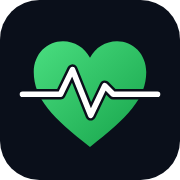
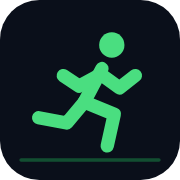
เปลี่ยนโลโก้เป็นนักวิ่ง และตั้งชื่อแอป ChanRun
Claude-Session: https://claude.ai/code/session_01H3crgiExkvZUZMgEydRkAY

Changed region(s): [[0.1111, 0.1667, 0.8889, 0.9167]]

diff --git a/src/App.jsx b/src/App.jsx
@@ -383,7 +383,7 @@ export default function App() {
       <div style={{ background:'#0d1117', borderBottom:'1px solid #1f2937', padding:'10px 16px', display:'flex', justifyContent:'space-between', alignItems:'center' }}>
         <div style={{ display:'flex', alignItems:'center', gap:10 }}>
           {user?.user_metadata?.avatar_url && <img src={user.user_metadata.avatar_url} style={{ width:28, height:28, borderRadius:'50%' }} />}
-          <div style={{ fontSize:13, fontWeight:'bold', color:'#22c55e', letterSpacing:2, display:'flex', alignItems:'center', gap:8 }}><img src="/logo.svg" alt="" width={24} height={24} />MARATHON COACH</div>
+          <div style={{ fontSize:13, fontWeight:'bold', color:'#22c55e', letterSpacing:2, display:'flex', alignItems:'center', gap:8 }}><img src="/logo.svg" alt="" width={24} height={24} />CHANRUN</div>
         </div>
         <div style={{ display:'flex', gap:8, alignItems:'center' }}>
           {daysLeft !== null && <div style={{ fontSize:11, color:'#f59e0b' }}>⏱ {daysLeft} วัน</div>}
@@ -417,8 +417,8 @@ export default function App() {
 function LoginScreen({ onLogin }) {
   return (
     <div style={{ minHeight:'100vh', background:'linear-gradient(160deg,#0a0f1a,#0f1f10)', display:'flex', flexDirection:'column', alignItems:'center', justifyContent:'center', padding:24 }}>
-      <img src="/logo.svg" alt="Marathon Coach" width={88} height={88} style={{ marginBottom:8 }} />
-      <div style={{ fontSize:28, fontWeight:'bold', color:'#22c55e', letterSpacing:3, marginBottom:4 }}>MARATHON COACH</div>
+      <img src="/logo.svg" alt="ChanRun" width={88} height={88} style={{ marginBottom:8 }} />
+      <div style={{ fontSize:28, fontWeight:'bold', color:'#22c55e', letterSpacing:3, marginBottom:4 }}>CHANRUN</div>
       <div style={{ color:'#6b7280', marginBottom:12, fontSize:13, textAlign:'center' }}>Self-Coached Marathon Platform</div>
       <div style={{ color:'#4b5563', marginBottom:40, fontSize:12, textAlign:'center' }}>วางแผน · บันทึก · วิเคราะห์ด้วย AI</div>
       <button onClick={onLogin} style={{ display:'flex', alignItems:'center', gap:12, background:'#fff', color:'#1f2937', border:'none', borderRadius:12, padding:'14px 28px', cursor:'pointer', fontWeight:'bold', fontSize:15, fontFamily:'inherit' }}>

diff --git a/index.html b/index.html
@@ -9,7 +9,7 @@
     <link rel="icon" type="image/svg+xml" href="/favicon.svg" />
     <link rel="apple-touch-icon" href="/apple-touch-icon.png" />
     <link rel="manifest" href="/manifest.webmanifest" />
-    <title>Marathon Coach</title>
+    <title>ChanRun</title>
     <style>
       * { margin: 0; padding: 0; box-sizing: border-box; }
       body { background: #0a0f1a; font-family: 'Courier New', monospace; }
